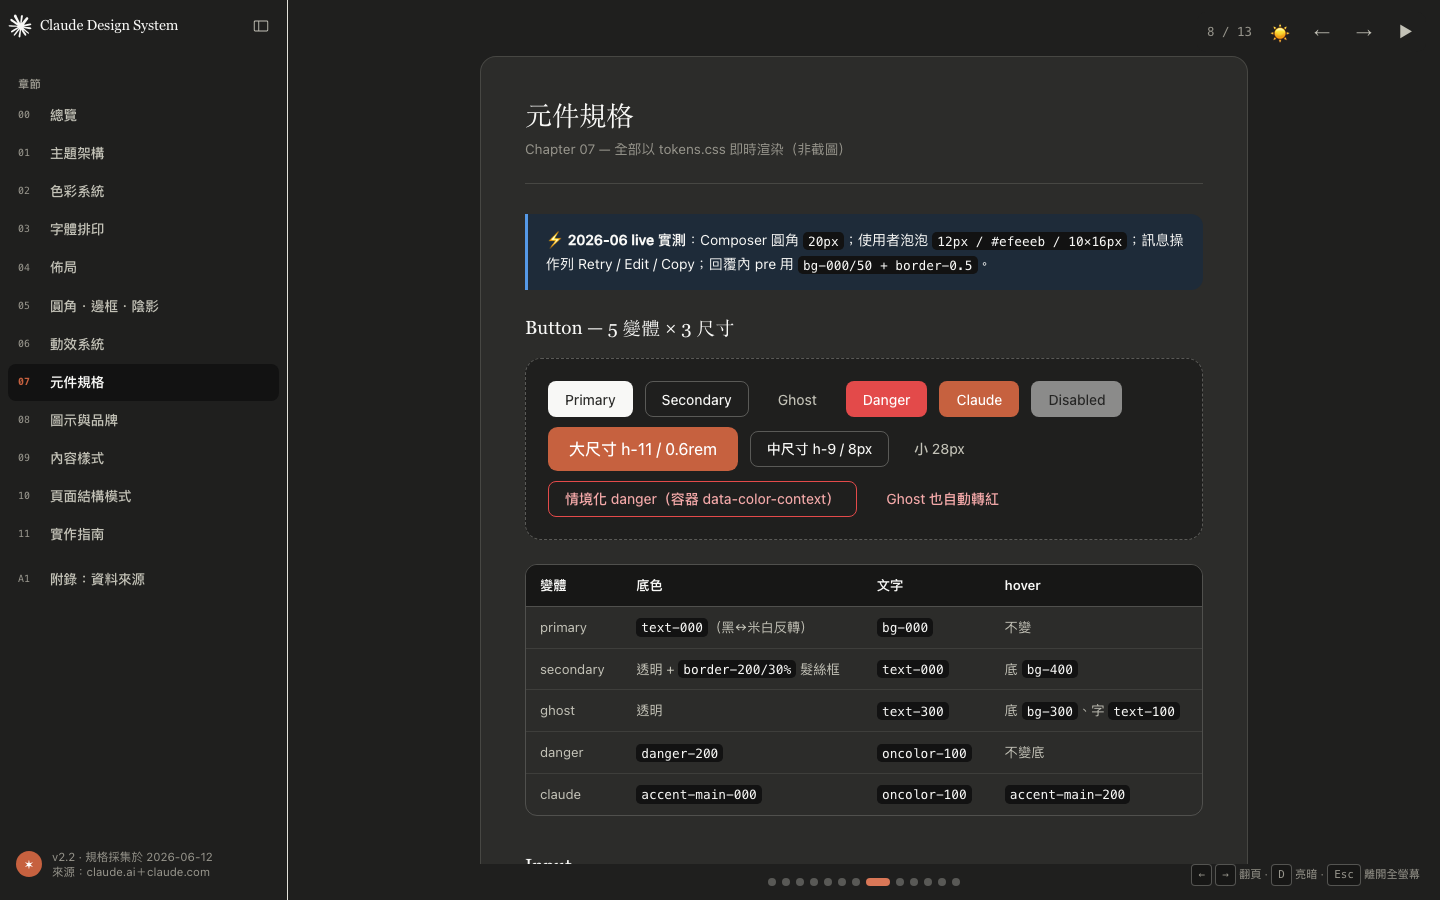
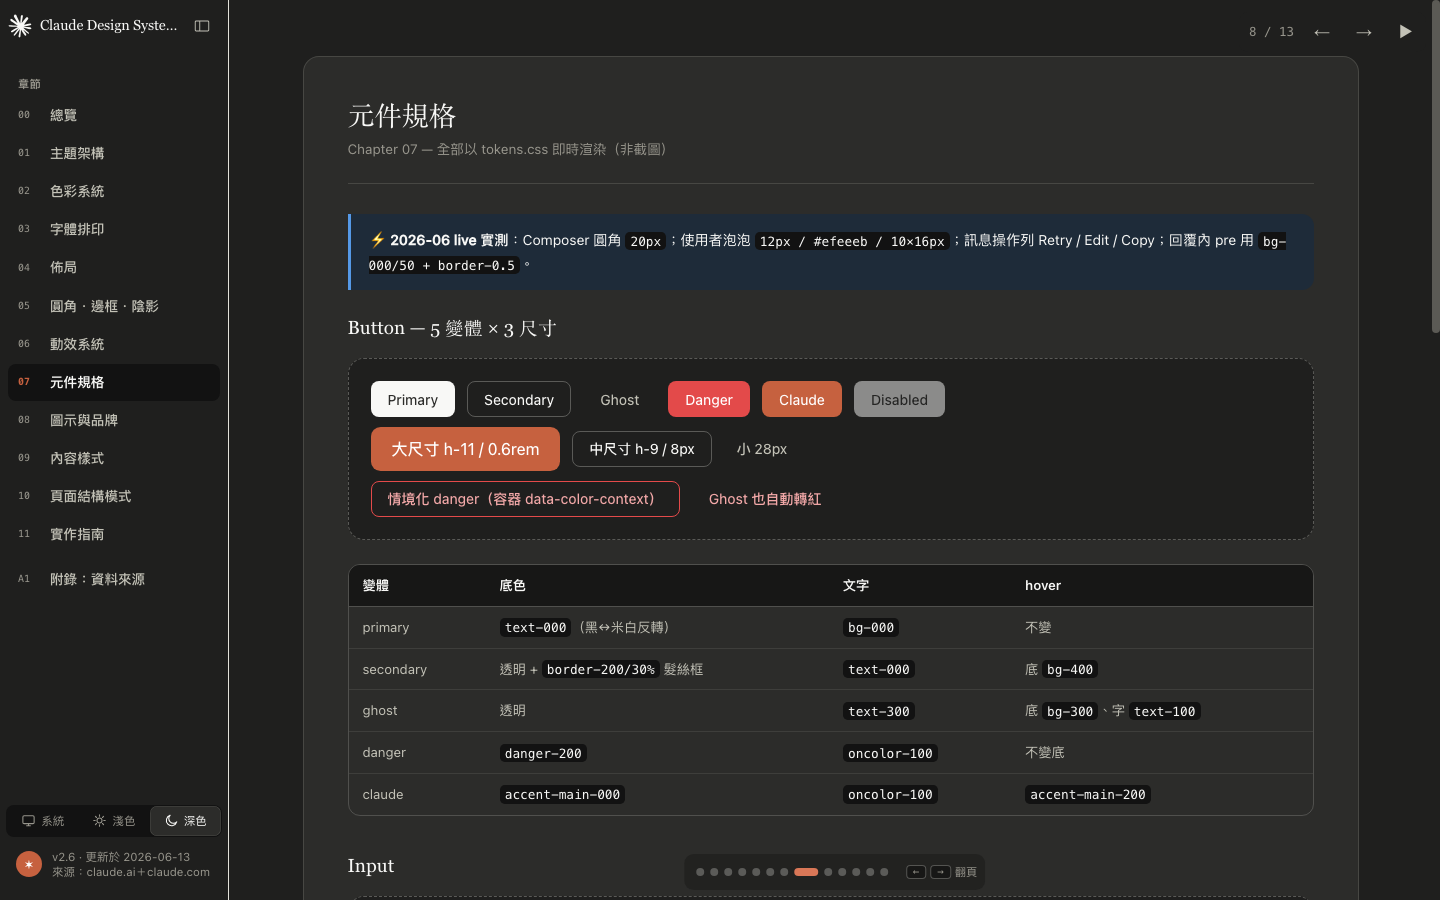
docs: update README screenshots

diff --git a/index.html b/index.html
@@ -451,7 +451,7 @@
     </div>
     <div class="foot-row" title="版本資訊">
       <span class="avatar" style="font-size:.8rem;">✶</span>
-      <span>v2.5 · 更新於 2026-06-13<br>來源：claude.ai＋claude.com</span>
+      <span>v2.6 · 更新於 2026-06-13<br>來源：claude.ai＋claude.com</span>
     </div>
   </div>
 </nav>

diff --git a/README.md b/README.md
@@ -46,11 +46,11 @@ Open [**index.html**](index.html) directly in a browser（fully static, zero dep
 
 - **11 chapters + appendix**：theme architecture, colors, typography, layout, shape & elevation, motion, components, icons & brand, content styles, page patterns, implementation guide
 - **Interactive**：click swatches to copy HEX, replay animations, live-rendered components（not screenshots）
-- **🌙 Light／dark toggle** — every token on the page responds instantly
+- **Appearance segmented control** — system／light／dark modes update every token instantly
 - **Presentation mode**：▶ fullscreen slides; navigate with ←／→, toggle dark with D
 - **Deep-linkable**：`?slide=7&mode=dark`
 
-<img src="https://github.com/5j54d93/Claude-Design-System/blob/main/.github/assets/components-dark.png" width='100%' height='100%'/>
+<img src=".github/assets/components-dark.png" width='100%' height='100%'/>
 
 ## What's Inside
 

diff --git a/docs/INDEX.md b/docs/INDEX.md
@@ -1,6 +1,6 @@
 # Claude Design System — 文件目錄
 
-> **版本**：v2.5 | **最後更新**：2026-06-13
+> **版本**：v2.6 | **最後更新**：2026-06-13
 > 來源：claude.ai App + claude.com 官網 **雙站 live 抓取**（2026-06-12）+ production CSS 存檔（2025-11 ~ 2026-03）
 
 ---
